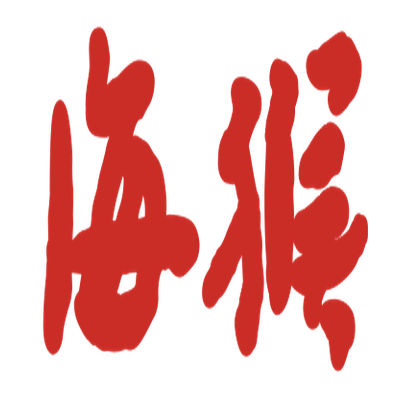
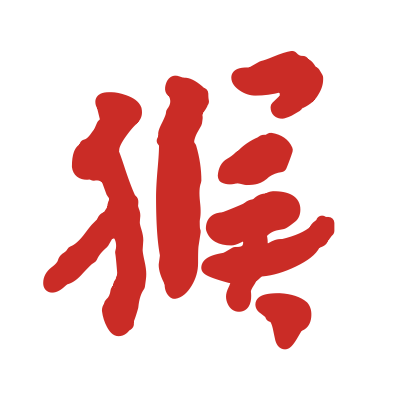
🐛 Surface career seals on the account card and recut stamp faces.
- The composition tags (空中小人 / 水下小人) were only computed in the
  ship detail modal, so an 81%-submarine career showed no tag anywhere.
  They now render on the account card hero beside the career verdict,
  fed by a shared useCompositionStamps composable over the per-ship
  cache, gated to zh locales so other languages get no empty slot.
- Career-level tags no longer render on a single ship's my-stats tab:
  they describe the player's career (a CV main's battleship page is not
  a CV page), so the ship panel keeps only its own PR verdict stamp.
- Verdict seals recut as single glyphs (神 / 猴), the four-char tags as
  a 2x2 seal face (空中 over 小人): gen_stamp_bitmaps.py drops the
  two-glyph stretch for line stacking with per-job font sizes, and the
  bundled bitmaps are regenerated from the local calligraphy fonts.
- The hero row wraps past a three-seal cluster instead of overflowing.

diff --git a/packages/webui/src/components/ships/ShipMyStatsPanel.tsx b/packages/webui/src/components/ships/ShipMyStatsPanel.tsx
@@ -6,13 +6,10 @@ import RatingStamp from "@/components/base/RatingStamp";
 import { useShipStatsStore } from "@/stores/shipStats";
 import { useStatsStore } from "@/stores/stats";
 import { useRankedStore } from "@/stores/ranked";
-import { useEncyclopediaStore } from "@/stores/encyclopedia";
-import { shipOfflineEntry } from "@/features/holographic/modelLoader";
 import type { PlayerShipStats } from "@/api";
 import { t } from "@/i18n";
 import {
   careerStamp,
-  compositionStamps,
   damageColor,
   prTier,
   winrateColor,
@@ -25,12 +22,11 @@ import "./ShipMyStatsPanel.scss";
 /**
  * "My Stats" tab of the ship detail modal — the water-table header (StatsCard)
  * re-cut for a single ship, mirroring the account card's layout: centered hero
- * winrate with the PR block behind a divider, the stamp grid (per-ship 神了/
- * 海猴 by PR + career 空中小人/水下小人 composition tags), the account-wide
- * four-division winrate row, the KPI strip, and the 1/7/30-day recent windows
- * against the locally recorded per-ship history baselines. Works for any
- * viewed player (the modal passes the accountId of whoever's water table
- * opened it), not just the bound account.
+ * winrate with the PR block behind a divider, the per-ship 神了/海猴 PR
+ * verdict stamp, the account-wide four-division winrate row, the KPI strip,
+ * and the 1/7/30-day recent windows against the locally recorded per-ship
+ * history baselines. Works for any viewed player (the modal passes the
+ * accountId of whoever's water table opened it), not just the bound account.
  */
 export default defineComponent({
   name: "ShipMyStatsPanel",
@@ -47,7 +43,6 @@ export default defineComponent({
     const shipStats = useShipStatsStore();
     const stats = useStatsStore();
     const ranked = useRankedStore();
-    const encyclopedia = useEncyclopediaStore();
     const { copy } = useClipboard();
 
     const history = computed(() => {
@@ -67,27 +62,12 @@ export default defineComponent({
       ranked.accountId != null && ranked.accountId === props.accountId ? ranked.winrate : null,
     );
 
-    /** The player's full per-ship list (career composition stamps). */
-    const shipList = computed(() => {
-      if (props.accountId == null || !props.realm) return [];
-      return shipStats.cache.get(`${props.realm}_${props.accountId}`) ?? [];
-    });
-
-    /** Ship type: encyclopedia first, offline DB fallback. */
-    const typeOf = (shipId: number) =>
-      encyclopedia.byId.get(shipId)?.type ?? shipOfflineEntry(shipId)?.type;
-
-    /** Stamp grid: per-ship PR verdict (神了 / 海猴) first, then the career
-     *  composition tags (空中小人 / 水下小人: CV/SS battles >20% of a 200+
-     *  battle career). Independent criteria — up to three coexist. */
+    /** Stamp: the ship's own PR verdict (神了 / 海猴). The career composition
+     *  tags (空中小人 / 水下小人) stay on the account card — they describe the
+     *  player's career, not this ship, and read as a ship verdict here. */
     const stamps = computed<StampKind[]>(() => {
-      const out: StampKind[] = [];
       const career = careerStamp(props.stats?.pr ?? null, props.stats?.battles ?? null);
-      if (career) out.push(career);
-      const comp = compositionStamps(shipList.value, typeOf);
-      if (comp.air) out.push("air");
-      if (comp.sub) out.push("sub");
-      return out;
+      return career ? [career] : [];
     });
 
     const pr = computed(() => prTier(props.stats?.pr ?? null));

diff --git a/packages/webui/src/components/stats/StatsCard.tsx b/packages/webui/src/components/stats/StatsCard.tsx
@@ -7,6 +7,8 @@ import RatingStamp from "@/components/base/RatingStamp";
 import type { PlayerStats } from "@/api";
 import { t } from "@/i18n";
 import { careerStamp, prTier, winrateColor, winrateTier } from "@/utils/winrate";
+import { useLanguage } from "@/i18n/useLanguage";
+import { useCompositionStamps } from "@/composables/useCompositionStamps";
 import { useClipboard } from "@/composables/useClipboard";
 import "./StatsCard.scss";
 
@@ -36,6 +38,16 @@ export default defineComponent({
       pr.value.key === "unknown" ? "—" : t(`stats.${pr.value.key}`),
     );
     const stamp = computed(() => careerStamp(props.stats.pr, props.stats.battles));
+    /** 成分 tags (空中小人 / 水下小人) from the shared per-ship cache — the
+     *  same lookup flow that fills the ship distribution below this card. */
+    const composition = useCompositionStamps(
+      () => props.stats.accountId,
+      () => props.stats.realm,
+    );
+    // The seals render nothing outside zh locales (RatingStamp's own rule);
+    // gate the cluster too so non-zh heroes don't grow an empty flex slot.
+    const { uiLocale } = useLanguage();
+    const sealsVisible = computed(() => uiLocale.value.startsWith("zh"));
     const wrTier = computed(() => winrateTier(props.stats.winrate));
     const wrColor = computed(() => winrateColor(props.stats.winrate));
     const { copy } = useClipboard();
@@ -130,8 +142,19 @@ export default defineComponent({
               {props.stats.battles != null ? `${props.stats.battles.toLocaleString()} ${t("stats.battles")}` : "—"}
             </span>
           </div>
-          {stamp.value ? (
-            <RatingStamp class="stats-card__stamp" kind={stamp.value} size={58} />
+          {sealsVisible.value &&
+          (stamp.value || composition.value.air || composition.value.sub) ? (
+            <div class="stats-card__stamps">
+              {stamp.value ? (
+                <RatingStamp class="stats-card__stamp" kind={stamp.value} size={58} />
+              ) : null}
+              {composition.value.air ? (
+                <RatingStamp class="stats-card__stamp" kind="air" size={46} />
+              ) : null}
+              {composition.value.sub ? (
+                <RatingStamp class="stats-card__stamp" kind="sub" size={46} />
+              ) : null}
+            </div>
           ) : null}
           <div
             class={["stats-card__pr-block", pr.value.rainbow ? "rainbow-text" : null]}

diff --git a/packages/webui/src/components/base/RatingStamp.tsx b/packages/webui/src/components/base/RatingStamp.tsx
@@ -14,8 +14,9 @@ let stampSeq = 0;
  *  weave + ink-rough displacement filter) around pre-rendered glyph bitmaps.
  *
  *  The glyphs are baked to PNGs by `scripts/gen_stamp_bitmaps.py` (calligraphy
- *  fonts: 神了 in 毛体, the rest in 鲁迅行书; two-glyph stamps pre-stretched to
- *  the 2/3-height seal look). The fonts themselves are commercial / unclear-
+ *  fonts: 神 in 毛体, the rest in 鲁迅行书; the four-char composition tags are
+ *  laid out as a 2x2 seal face — 空中 over 小人). The fonts themselves are
+ *  commercial / unclear-
  *  license and are NOT bundled — bitmaps only, so the seals look identical
  *  everywhere. Displacement seeds are fixed per kind → deterministic ink.
  *   - "miracle" (神了): PR ≥ 2100 over 500+ battles
@@ -101,9 +102,9 @@ export default defineComponent({
             )}
             <rect class="rating-stamp__frame" x="5" y="5" width="90" height="90" rx="7" stroke-width="6" />
             <rect class="rating-stamp__frame" x="14.5" y="14.5" width="71" height="71" rx="3" stroke-width="2" />
-            {/* Glyph bitmap (pre-centered, cinnabar, two-glyph stamps
-                pre-stretched), inset to sit well inside the inner frame —
-                full-bleed glyphs read too heavy at seal sizes. */}
+            {/* Glyph bitmap (pre-centered cinnabar: single-glyph verdicts,
+                2x2 composition tags), inset to sit well inside the inner
+                frame — full-bleed glyphs read too heavy at seal sizes. */}
             <image href={STAMP_GLYPHS[props.kind]} x="17" y="17" width="66" height="66" />
           </g>
         </svg>

diff --git a/packages/webui/src/composables/useCompositionStamps.ts b/packages/webui/src/composables/useCompositionStamps.ts
@@ -1,0 +1,29 @@
+import { computed, toValue, type ComputedRef, type MaybeRefOrGetter } from "vue";
+
+import { useEncyclopediaStore } from "@/stores/encyclopedia";
+import { useShipStatsStore } from "@/stores/shipStats";
+import { shipOfflineEntry } from "@/features/holographic/modelLoader";
+import { compositionStamps, type CompositionStamps } from "@/utils/winrate";
+
+/** 空中小人 / 水下小人 for a viewed player, resolved from the shared per-ship
+ *  cache — the same data the ship distribution table reads, so no extra
+ *  fetch. An empty cache (per-ship stats not loaded for this player yet)
+ *  simply yields no tags. */
+export function useCompositionStamps(
+  accountId: MaybeRefOrGetter<number | null | undefined>,
+  realm: MaybeRefOrGetter<string | null | undefined>,
+): ComputedRef<CompositionStamps> {
+  const shipStats = useShipStatsStore();
+  const encyclopedia = useEncyclopediaStore();
+
+  return computed(() => {
+    const id = toValue(accountId);
+    const realmKey = toValue(realm);
+    if (id == null || !realmKey) return { air: false, sub: false };
+    const ships = shipStats.cache.get(`${realmKey}_${id}`) ?? [];
+    /** Ship type: encyclopedia first, offline DB fallback. */
+    const typeOf = (shipId: number) =>
+      encyclopedia.byId.get(shipId)?.type ?? shipOfflineEntry(shipId)?.type;
+    return compositionStamps(ships, typeOf);
+  });
+}

diff --git a/packages/webui/src/components/stats/StatsCard.scss b/packages/webui/src/components/stats/StatsCard.scss
@@ -17,6 +17,9 @@
     display: flex;
     align-items: stretch;
     gap: 1rem;
+    /* A full three-seal cluster (~163px, flex: none) needs room; past the
+       hero's width it wraps to its own row instead of overflowing. */
+    flex-wrap: wrap;
     padding: 0.75rem;
     background: rgb(var(--color-bg));
     border-radius: var(--radius-sm);
@@ -76,8 +79,16 @@
     }
   }
 
-  /* Career-verdict seal (神了 / 海猴) sits in the open gap between the
-     winrate block and the PR block, like a stamp pressed onto the card. */
+  /* Seal cluster between the winrate block and the PR block: the career
+     verdict (神了 / 海猴) first, then the 成分 tags (空中小人 / 水下小人)
+     at the ship panel's grid size — all pressed onto the card. */
+  &__stamps {
+    display: flex;
+    align-items: center;
+    gap: 0.4rem;
+    flex: none;
+  }
+
   &__stamp {
     align-self: center;
     flex: none;

diff --git a/packages/webui/src/utils/winrate.ts b/packages/webui/src/utils/winrate.ts
@@ -74,7 +74,8 @@ export interface CompositionStamps {
  *  exceed 20% of the player's career battles, with a career total above 200
  *  battles so a fresh account's first CV foray doesn't earn the mark.
  *  `ships` is the player's full per-ship stat list; `typeOf` resolves the
- *  ship type (encyclopedia first, offline DB fallback). */
+ *  ship type (encyclopedia first, offline DB fallback). Career-level tags:
+ *  they render on the account card only, never on a single ship's page. */
 export function compositionStamps(
   ships: { shipId: number; battles: number }[],
   typeOf: (shipId: number) => string | null | undefined,

diff --git a/scripts/gen_stamp_bitmaps.py b/scripts/gen_stamp_bitmaps.py
@@ -10,9 +10,10 @@ files. Re-run locally when a glyph or style changes:
       --mao "D:/path/草檀斋毛泽东字体.ttf" \
       --luxun "D:/path/方正鲁迅行书.ttf"
 
-Output: 400x400 transparent PNGs (2x the 100-unit SVG box), text centered in
-cinnabar ink with an outline stroke; two-glyph stamps pre-stretched 2x
-vertically (the seal's 2/3-height look). Requires Pillow."""
+Output: 400x400 transparent PNGs (2x the 100-unit SVG box), centered cinnabar
+ink with an outline stroke. Single-glyph verdicts (神 / 猴) dominate the face;
+four-char composition tags stack two lines (空中 over 小人) into the classic
+2x2 seal face. Requires Pillow."""
 import argparse
 import os
 
@@ -20,47 +21,56 @@ from PIL import Image, ImageDraw, ImageFont
 
 INK = (202, 44, 38, 255)
 CANVAS = 400  # 2x supersample of the 100-unit SVG box
-FONT_SIZE = 190
+MARGIN = 16
 STROKE = 6
+GAP = 10
 
-# (output name, text, which font, vertically stretch 2-char seals)
+# (output name, lines top-to-bottom, which font, font size)
 JOBS = [
-    ("stamp-miracle.png", "神了", "mao", True),
-    ("stamp-ape.png", "海猴", "luxun", True),
-    ("stamp-air.png", "空中小人", "luxun", False),
-    ("stamp-sub.png", "水下小人", "luxun", False),
+    ("stamp-miracle.png", ["神"], "mao", 330),
+    ("stamp-ape.png", ["猴"], "luxun", 330),
+    ("stamp-air.png", ["空中", "小人"], "luxun", 165),
+    ("stamp-sub.png", ["水下", "小人"], "luxun", 165),
 ]
 
 
-def render(text: str, font_path: str, stretch: bool) -> Image.Image:
-    font = ImageFont.truetype(font_path, FONT_SIZE)
+def render(lines, font_path: str, font_size: int) -> Image.Image:
+    font = ImageFont.truetype(font_path, font_size)
     probe = ImageDraw.Draw(Image.new("RGBA", (8, 8)))
-    box = probe.textbbox((0, 0), text, font=font, stroke_width=STROKE)
-    w, h = box[2] - box[0], box[3] - box[1]
-    tile = Image.new("RGBA", (w + 8, h + 8), (0, 0, 0, 0))
-    d = ImageDraw.Draw(tile)
-    d.text((4 - box[0], 4 - box[1]), text, font=font, fill=INK, stroke_width=STROKE, stroke_fill=INK)
-    if stretch:
-        tile = tile.resize((tile.width, tile.height * 2), Image.LANCZOS)
+    tiles = []
+    for line in lines:
+        box = probe.textbbox((0, 0), line, font=font, stroke_width=STROKE)
+        w, h = box[2] - box[0], box[3] - box[1]
+        tile = Image.new("RGBA", (w + 8, h + 8), (0, 0, 0, 0))
+        d = ImageDraw.Draw(tile)
+        d.text((4 - box[0], 4 - box[1]), line, font=font, fill=INK, stroke_width=STROKE, stroke_fill=INK)
+        tiles.append(tile)
+    width = max(t.width for t in tiles)
+    height = sum(t.height for t in tiles) + GAP * (len(tiles) - 1)
+    block = Image.new("RGBA", (width, height), (0, 0, 0, 0))
+    y = 0
+    for t in tiles:
+        block.alpha_composite(t, ((width - t.width) // 2, y))
+        y += t.height + GAP
     # Fit into the square canvas, centered (aspect preserved).
-    scale = min((CANVAS - 16) / tile.width, (CANVAS - 16) / tile.height, 1.0)
+    scale = min((CANVAS - MARGIN) / block.width, (CANVAS - MARGIN) / block.height, 1.0)
     if scale < 1.0:
-        tile = tile.resize((round(tile.width * scale), round(tile.height * scale)), Image.LANCZOS)
+        block = block.resize((round(block.width * scale), round(block.height * scale)), Image.LANCZOS)
     canvas = Image.new("RGBA", (CANVAS, CANVAS), (0, 0, 0, 0))
-    canvas.alpha_composite(tile, ((CANVAS - tile.width) // 2, (CANVAS - tile.height) // 2))
+    canvas.alpha_composite(block, ((CANVAS - block.width) // 2, (CANVAS - block.height) // 2))
     return canvas
 
 
 def main() -> None:
     ap = argparse.ArgumentParser(description=__doc__)
-    ap.add_argument("--mao", required=True, help="Path to the Mao-calligraphy TTF (神了)")
+    ap.add_argument("--mao", required=True, help="Path to the Mao-calligraphy TTF (神)")
     ap.add_argument("--luxun", required=True, help="Path to the LuXun xingshu TTF (other seals)")
     out = os.path.join(os.path.dirname(__file__), "..", "packages", "webui", "src", "res", "stamps")
     args = ap.parse_args()
     fonts = {"mao": args.mao, "luxun": args.luxun}
     os.makedirs(out, exist_ok=True)
-    for name, text, which, stretch in JOBS:
-        img = render(text, fonts[which], stretch)
+    for name, lines, which, size in JOBS:
+        img = render(lines, fonts[which], size)
         path = os.path.join(out, name)
         img.save(path, optimize=True)
         print(f"{name}: {img.size} {os.path.getsize(path)} bytes")
